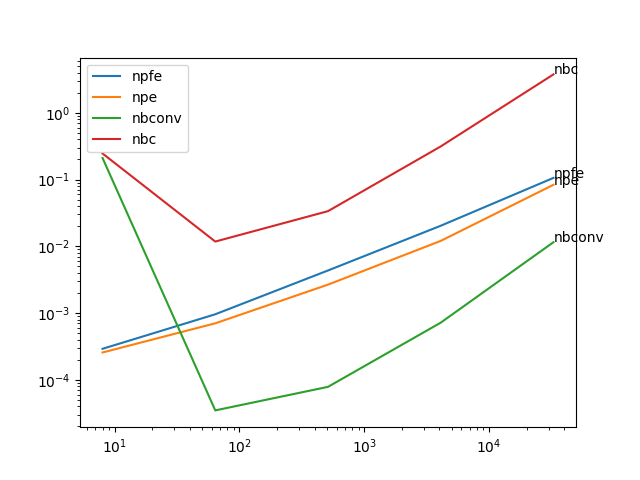
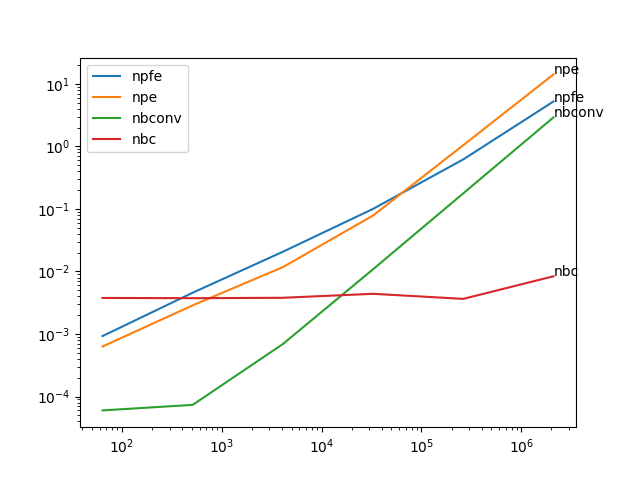
fixed 2nd and 3rd order benchmarks

diff --git a/test_1d_2o.py b/test_1d_2o.py
@@ -54,18 +54,20 @@ def test_2_nbconv(x,k): #numba_conv
 
 @cuda.jit
 def test_2_nbcj(x,k,y): #numba_conv
-    for n in range(y.size):
+    n = cuda.grid(1)
+    if (0 <= n) and (n < y.size):
         for i in range(k.shape[0]):
             for j in range(k.shape[1]):
                 y[n] += x[i+n] * x[j+n] * k[i,j]
-
 @t
 def test_2_nbc(x, k):
     # test_1_nb_cuda_jit.__name__ isn't an attribute
     # this also fixes the api so it can be called with (x,k)
-    l = x.size - k.shape[0]+1
-    y = cp.zeros(l)
-    test_2_nbcj[1,32](x, k, y)
+    y = cp.zeros(x.size - k.shape[0] + 1)
+    # y = cuda.device_array_like(ys)
+    th = 128
+    b = len(x)//th + 1
+    test_2_nbcj[b,th](x, k, y)
     return y
 
 @t
@@ -82,21 +84,25 @@ def test_2_npe(x,k):
     return np.einsum('nij,ij',X,k)
 
 def test_2_valid(n,m):
-    # x = np.random.uniform(0,1,n)
-    x = np.arange(n)
-    k = np.random.uniform(0,1,m)
-    K = np.outer( np.arange(m), np.arange(m) )+2
+    x = np.random.uniform(-1,1,n)
+    K = np.random.uniform(-1,1,(m,m))
+
+    xc = cuda.to_device(x)
+    kc = cuda.to_device(K)
+    # l = x.size - K.shape[0]+1
+    # y = np.zeros(l)
+    # ys = cuda.to_device(y)
 
     if True:
         npfe = test_2_npfe(x,K)
         npe = test_2_npe(x,K)
         nbconv = test_2_nbconv(x,K)
-        nbc = test_2_nbc(x,K)
+        nbc = test_2_nbc(xc,kc)#.copy_to_host()
         # nbconv_wh = test_2_nbconv_wh(x,K)
-        print(npfe)
-        print(npe)
-        print(nbconv)
-        print(nbc)
+        # print(npfe)
+        # print(npe)
+        # print(nbconv)
+        # print(nbc)
         print(np.all([
                 np.isclose(npfe,npe)
                 ,np.isclose(nbconv,npe)
@@ -107,7 +113,7 @@ def test_2_valid(n,m):
             )
 
 def test_2_plot():
-    for i in range(1,6):
+    for i in range(1,8):
         test_2_valid(4**i, 2**i)
 
     print(results)
@@ -117,7 +123,7 @@ def test_2_plot():
         # x = [a[i][0]*a[i][1] for i in range(a.shape[0])]
         y = a[:,2]
         # print(k, x, y)
-        plt.plot(x, y, label=k[7:])
+        plt.plot(x[1:], y[1:], label=k[7:])
         plt.text(x[-1], y[-1], str(k[7:]))
     plt.xscale('log')
     plt.yscale('log')
@@ -127,8 +133,8 @@ def test_2_plot():
 
 if __name__ == '__main__':
     # print(test_2_nbconv.__dir__())
-    test_2_valid(8, 2)
-    test_2_valid(8, 3)
-    test_2_valid(8, 4)
+    # test_2_valid(8, 2)
+    # test_2_valid(8, 3)
+    # test_2_valid(8, 4)
     # test_2_valid(1000, 100)
-    # test_2_plot()
+    test_2_plot()

diff --git a/test_1d_3o.py b/test_1d_3o.py
@@ -84,12 +84,14 @@ def test_3_valid(n,m):
     np.random.seed(0)
     x = np.random.uniform(-1,1,n)
     k = np.random.uniform(-1,1,(m,m,m))
+    xc = cuda.to_device(x)
+    kc = cuda.to_device(k)
 
     if True:
         nbconv = test_3_nbconv(x,k)
-        # nbc = test_3_nbc(x,k)
-        nbcg = test_3_nbcg(x,k)
-        nbcg1024 = test_3_nbcg1024(x,k)
+        nbc = test_3_nbc(x,k)
+        nbcg = test_3_nbcg(xc,kc)
+        nbcg1024 = test_3_nbcg1024(xc,kc)
 
         # print(nbconv)
         # print(nbc)
@@ -97,7 +99,7 @@ def test_3_valid(n,m):
 
         print(np.all([
                 np.isclose(nbconv,nbconv)
-                # ,np.isclose(nbc,nbconv)
+                ,np.isclose(nbc,nbconv)
                 ,np.isclose(nbcg,nbconv)
                 ,np.isclose(nbcg1024,nbconv)
                 ])

diff --git a/README.md b/README.md
@@ -46,22 +46,17 @@ Best to worst for larger arrays:
 ![1D, Second Order](1d2o.png)
 
 Best to worst for larger arrays:
-*  nbconv - numba njit (naive implementation with njit)
-*  npe - numpy einsum (generate the outer product all at once first)
-*  npfe - numpy for loop einsum (generate the outer product on demand)
 *  nbc - numba cuda (naive implementation with @cuda.njit)
+*  nbconv - numba njit (naive implementation with njit)
+*  npfe - numpy for loop einsum (generate the outer product on demand)
+*  npe - numpy einsum (generate the outer product all at once first)
 
 # 1D Third Order
 
 ![1D, Third Order](1d3o.png)
 
 Best to worst for larger arrays:
-*  nbconv - numba njit (naive implementation with njit)
+*  nbcg1024 - numba cuda (naive implementation with @cuda.njit and grid, 1024 threads/block)
 *  nbcg - numba cuda (naive implementation with @cuda.njit and grid)
-*  nbc - numba cuda (naive implementation with @cuda.njit)
-
-![1D, Third Order](1d3o_g.png)
-
-Best to worst for larger arrays:
-*  nbcg - numba cuda (naive implementation with @cuda.njit and grid, 128 is faster than 1024 (t/b))
 *  nbconv - numba njit (naive implementation with njit)
+*  nbc - numba cuda (naive implementation with @cuda.njit)
